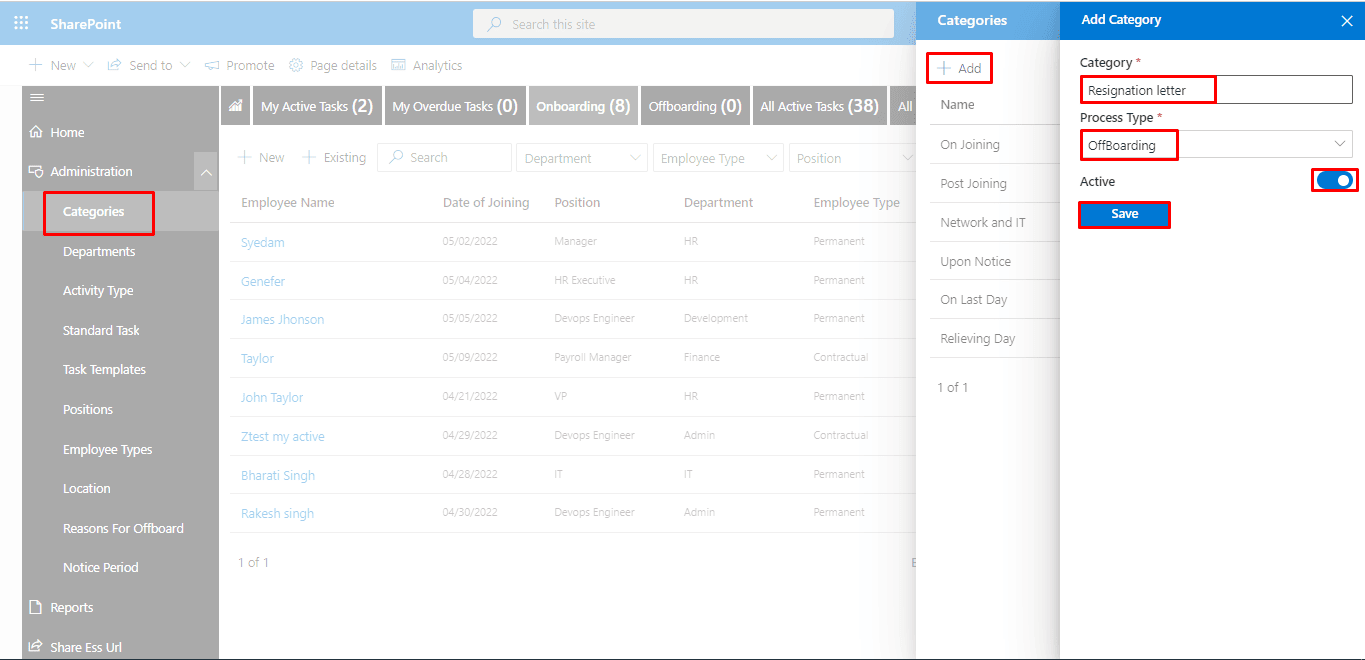
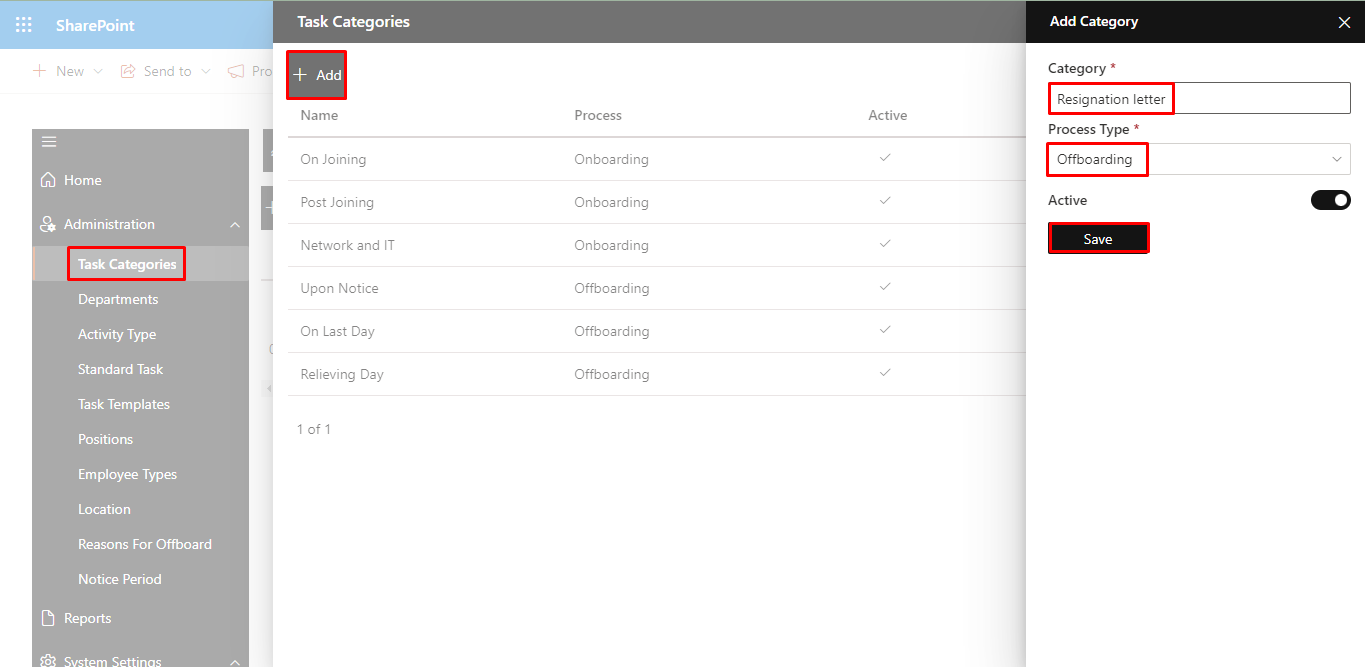
update content

diff --git a/employee-on-boarding/modern/admin/Set-up-of-appliacation/system_setting/email_template/index.html b/employee-on-boarding/modern/admin/Set-up-of-appliacation/system_setting/email_template/index.html
@@ -259,6 +259,11 @@
                                                       Onboarded
                                                       </a>
                                                       </li>
+                                                    </li> <li data-nav-id="../General" title=Customization class="sidelist">
+                                                      <a href="../../../Process/offboarded/">
+                                                        Offboarded
+                                                        </a>
+                                                        </li>
     
                 </li>  
                   
@@ -297,21 +302,37 @@
     
 <br>
 To change email notification of Task Assignment Notification</b>, <b>Offboard Notification</b>, <b>Offboard Task Notification</b> and <b>Reminder Notification</b>, follow same step as shown in above.
+
 <br>
 <br>
-<b>Onboard Notification</b>: The manager will receive an email notification with the details of the onboarded employee.
+<p><b>Onboard Notification</b>: The manager will receive an email notification with the details of the onboarded employee.
+  <div><img src="email.png" onclick="openModal('email.png')" alt="" width="100%"
+    height="auto" style="image-rendering:-webkit-optimize-contrast;"></div></p>
+
 <br>
+
+<p><b>Task Assignment Notification</b>: The onboarded team member and the task owner will receive an email notification with the details and task list assigned to the team member.
+  <div><img src="Task_assign_notification.png" onclick="openModal('Task_assign_notification.png')" alt="" width="100%"
+    height="auto" style="image-rendering:-webkit-optimize-contrast;"></div></p> 
 <br>
-<b>Task Assignment Notification</b>: The onboarded team member and the task owner will receive an email notification with the details and task list assigned to the team member.
+<p>
+  <b>Offboard Notification</b>: The manager will receive an email notification with the details of the offboarded employee.
+  <div><img src="offboard_notification.png" onclick="openModal('offboard_notification.png')" alt="" width="100%"
+    height="auto" style="image-rendering:-webkit-optimize-contrast;"></div>
+</p>
+
 <br>
+<p>
+  <b>Offboard Task Notification</b>: The offboarded team member and the task owner will receive an email notification with the details and task list assigned to the team member.
+  <div><img src="offboard_task_notification.png" onclick="openModal('offboard_task_notification.png')" alt="" width="100%"
+    height="auto" style="image-rendering:-webkit-optimize-contrast;"></div>
+</p>
 <br>
-<b>Offboard Notification</b>: The manager will receive an email notification with the details of the offboarded employee.
-<br>
-<br>
-<b>Offboard Task Notification</b>: The offboarded team member and the task owner will receive an email notification with the details and task list assigned to the team member.
-<br>
-<br>
-<b>Reminder Notification</b>: The task owner will receive a reminder email notification if the task is pending from the team member's end.
+<p>
+  <b>Reminder Notification</b>: The task owner will receive a reminder email notification if the task is pending from the team member's end.
+<div><img src="offboard_task_notification.png" onclick="openModal('offboard_task_notification.png')" alt="" width="100%"
+  height="auto" style="image-rendering:-webkit-optimize-contrast;"></div>
+</p>
 
 
     </ul>

diff --git a/employee-on-boarding/modern/admin/Set-up-of-appliacation/administration/activity_type/index.html b/employee-on-boarding/modern/admin/Set-up-of-appliacation/administration/activity_type/index.html
@@ -259,6 +259,11 @@
                                                       Onboarded
                                                       </a>
                                                       </li>
+                                                    </li> <li data-nav-id="../General" title=Customization class="sidelist">
+                                                      <a href="../../../Process/offboarded/">
+                                                        Offboarded
+                                                        </a>
+                                                        </li>
     
                 </li>  
                   
@@ -283,8 +288,7 @@
       <br>
       <div><img src="activity.png" onclick="openModal('activity.png')" alt="" width="100%"
         height="auto"></div>
-        <div><img src="task.png" onclick="openModal('task.png')" alt="" width="100%"
-          height="auto"></div>
+       
         <br>
       <ol>
         <li>
@@ -304,7 +308,14 @@
         <li>
             Click on <b>Save</b> button.
         </li>
-       
+       <li>
+        <p>The activity type will now reflects in the Standard Task under Administration from side navigation panel.
+          <!-- <div><img src="task.png" onclick="openModal('task.png')" alt="" width="100%"
+            height="auto"></div> -->
+            <div><img src="activity_.png" onclick="openModal('activity_.png')" alt="" width="100%"
+              height="auto"></div>
+        </p>
+       </li>
       </ol>
       <br>
     

diff --git a/employee-on-boarding/modern/admin/Set-up-of-appliacation/administration/catagories/index.html b/employee-on-boarding/modern/admin/Set-up-of-appliacation/administration/catagories/index.html
@@ -259,6 +259,11 @@
                                                   Onboarded
                                                   </a>
                                                   </li>
+                                                </li> <li data-nav-id="../General" title=Customization class="sidelist">
+                                                  <a href="../../../Process/offboarded/">
+                                                    Offboarded
+                                                    </a>
+                                                    </li>
 
             </li>  
               
@@ -269,7 +274,7 @@
 <div class="p-lg-5 p-4 bg-white" id=content>
 <!-- <h2 class=mb-5 id=title>Workflow</h2> -->
 <div class="bg-light p-4">
-    <h2 id="_dashboards"><a class="header-icon-link highlight" href=#>Catagories <i
+    <h2 id="_dashboards"><a class="header-icon-link highlight" href=#>Task Catagories <i
         class="fas fa-link" style="font-size:12px; color:lightgray;"></i></a> </h2>
 <br>
 <ul class=page-list>
@@ -301,7 +306,9 @@
         Click on <b>Save</b> button.
     </li>
     <li>
-      The catagories now reflects in the <b>Standard Task</b> under Administration from side navigation panel.
+      <p>The catagories will now reflects in the <b>Standard Task</b> under Administration from side navigation panel.</p>
+      <div><img src="category_.png" onclick="openModal('category_.png')" alt="" width="100%"
+        height="auto"></div>
     </li>
   </ol>
   <br>

diff --git a/employee-on-boarding/modern/admin/Set-up-of-appliacation/administration/departments/index.html b/employee-on-boarding/modern/admin/Set-up-of-appliacation/administration/departments/index.html
@@ -259,6 +259,11 @@
                                                   Onboarded
                                                   </a>
                                                   </li>
+                                                </li> <li data-nav-id="../General" title=Customization class="sidelist">
+                                                  <a href="../../../Process/offboarded/">
+                                                    Offboarded
+                                                    </a>
+                                                    </li>
 
             </li>  
               
@@ -304,7 +309,9 @@
         Click on <b>Save</b> button.
     </li>
     <li>
-      The department now reflects in the <b>Basic Information</b> tab of <b>Onboard</b> page.
+      <p>The department now reflects in the <b>Basic Information</b> tab of <b>Onboard</b> page.</p>
+      <div><img src="depart_.png" onclick="openModal('depart_.png')" alt="" width="100%"
+        height="auto"></div>
     </li>
   </ol>
   <br>

diff --git a/employee-on-boarding/modern/admin/Process/offboarded/index.html b/employee-on-boarding/modern/admin/Process/offboarded/index.html
@@ -260,10 +260,15 @@
                                       All Overdue Task
                                       </a>
                                       </li> <li data-nav-id="../General" title=Customization class="sidelist active">
-                                        <a href="../../Process/offboarded/">
-                                          Offboarded
+                                        <a href="../../Process/onboarded/">
+                                          Onboarded
                                           </a>
                                           </li>
+                                        </li> <li data-nav-id="../General" title=Customization class="sidelist active">
+                                          <a href="../../Process/offboarded/">
+                                            Offboarded
+                                            </a>
+                                            </li>
                   
           </li>
             

diff --git a/employee-on-boarding/modern/admin/ess/index.html b/employee-on-boarding/modern/admin/ess/index.html
@@ -257,6 +257,11 @@
                                                       Onboarded
                                                       </a>
                                                       </li>
+                                                    </li> <li data-nav-id="../General" title=Customization class="sidelist">
+                                                      <a href="../Process/offboarded/">
+                                                        Offboarded
+                                                        </a>
+                                                        </li>
 
                 </li>  
                   
@@ -290,6 +295,8 @@
        
     
 <img src="share.png" onclick="openModal('share.png')" alt="" width="100%">
+<br>
+<img src="ESS_mail.png" onclick="openModal('ESS_mail.png')" alt="" width="100%">
     </ul>
     </div>
     <p class="post-meta border-bottom pb-3 mb-0 mt-3" id="date">

diff --git a/employee-on-boarding/modern/admin/Set-up-of-appliacation/index.html b/employee-on-boarding/modern/admin/Set-up-of-appliacation/index.html
@@ -253,6 +253,11 @@
                                                             Onboarded
                                                             </a>
                                                             </li>
+                                                          </li> <li data-nav-id="../General" title=Customization class="sidelist">
+                                                            <a href="../Process/offboarded/">
+                                                              Offboarded
+                                                              </a>
+                                                              </li>
                       </ul>
 
                      

diff --git a/employee-on-boarding/modern/admin/Set-up-of-appliacation/administration/positions/index.html b/employee-on-boarding/modern/admin/Set-up-of-appliacation/administration/positions/index.html
@@ -258,6 +258,11 @@
                                                       Onboarded
                                                       </a>
                                                       </li>
+                                                    </li> <li data-nav-id="../General" title=Customization class="sidelist">
+                                                      <a href="../../../Process/offboarded/">
+                                                        Offboarded
+                                                        </a>
+                                                        </li>
     
                 </li>  
                   

diff --git a/employee-on-boarding/modern/admin/Set-up-of-appliacation/system_setting/users/index.html b/employee-on-boarding/modern/admin/Set-up-of-appliacation/system_setting/users/index.html
@@ -258,6 +258,11 @@
                                                       Onboarded
                                                       </a>
                                                       </li>
+                                                    </li> <li data-nav-id="../General" title=Customization class="sidelist">
+                                                      <a href="../../../Process/offboarded/">
+                                                        Offboarded
+                                                        </a>
+                                                        </li>
     
                 </li>  
                   

diff --git a/employee-on-boarding/modern/admin/Process/my_active_task/index.html b/employee-on-boarding/modern/admin/Process/my_active_task/index.html
@@ -263,7 +263,11 @@
                                         <a href="../../Process/onboarded/">
                                           Onboarded
                                           </a>
-                                          </li>
+                                          </li> </li> <li data-nav-id="../General" title=Customization class="sidelist">
+                                            <a href="../../Process/offboarded/">
+                                              Offboarded
+                                              </a>
+                                              </li>
                   
           </li>
             

diff --git a/employee-on-boarding/modern/admin/report/index.html b/employee-on-boarding/modern/admin/report/index.html
@@ -257,6 +257,12 @@
                                                       Onboarded
                                                       </a>
                                                       </li>
+                                                    </li> <li data-nav-id="../General" title=Customization class="sidelist">
+                                                      <a href="../Process/offboarded/">
+                                                        Offboarded
+                                                        </a>
+                                                        </li>
+  
 
                 </li>  
                   

diff --git a/employee-on-boarding/modern/admin/home/index.html b/employee-on-boarding/modern/admin/home/index.html
@@ -257,6 +257,11 @@
                                                     Onboarded
                                                     </a>
                                                     </li>
+                                                  </li> <li data-nav-id="../General" title=Customization class="sidelist">
+                                                    <a href="../Process/offboarded/">
+                                                      Offboarded
+                                                      </a>
+                                                      </li>
 
               </li>  
                 
